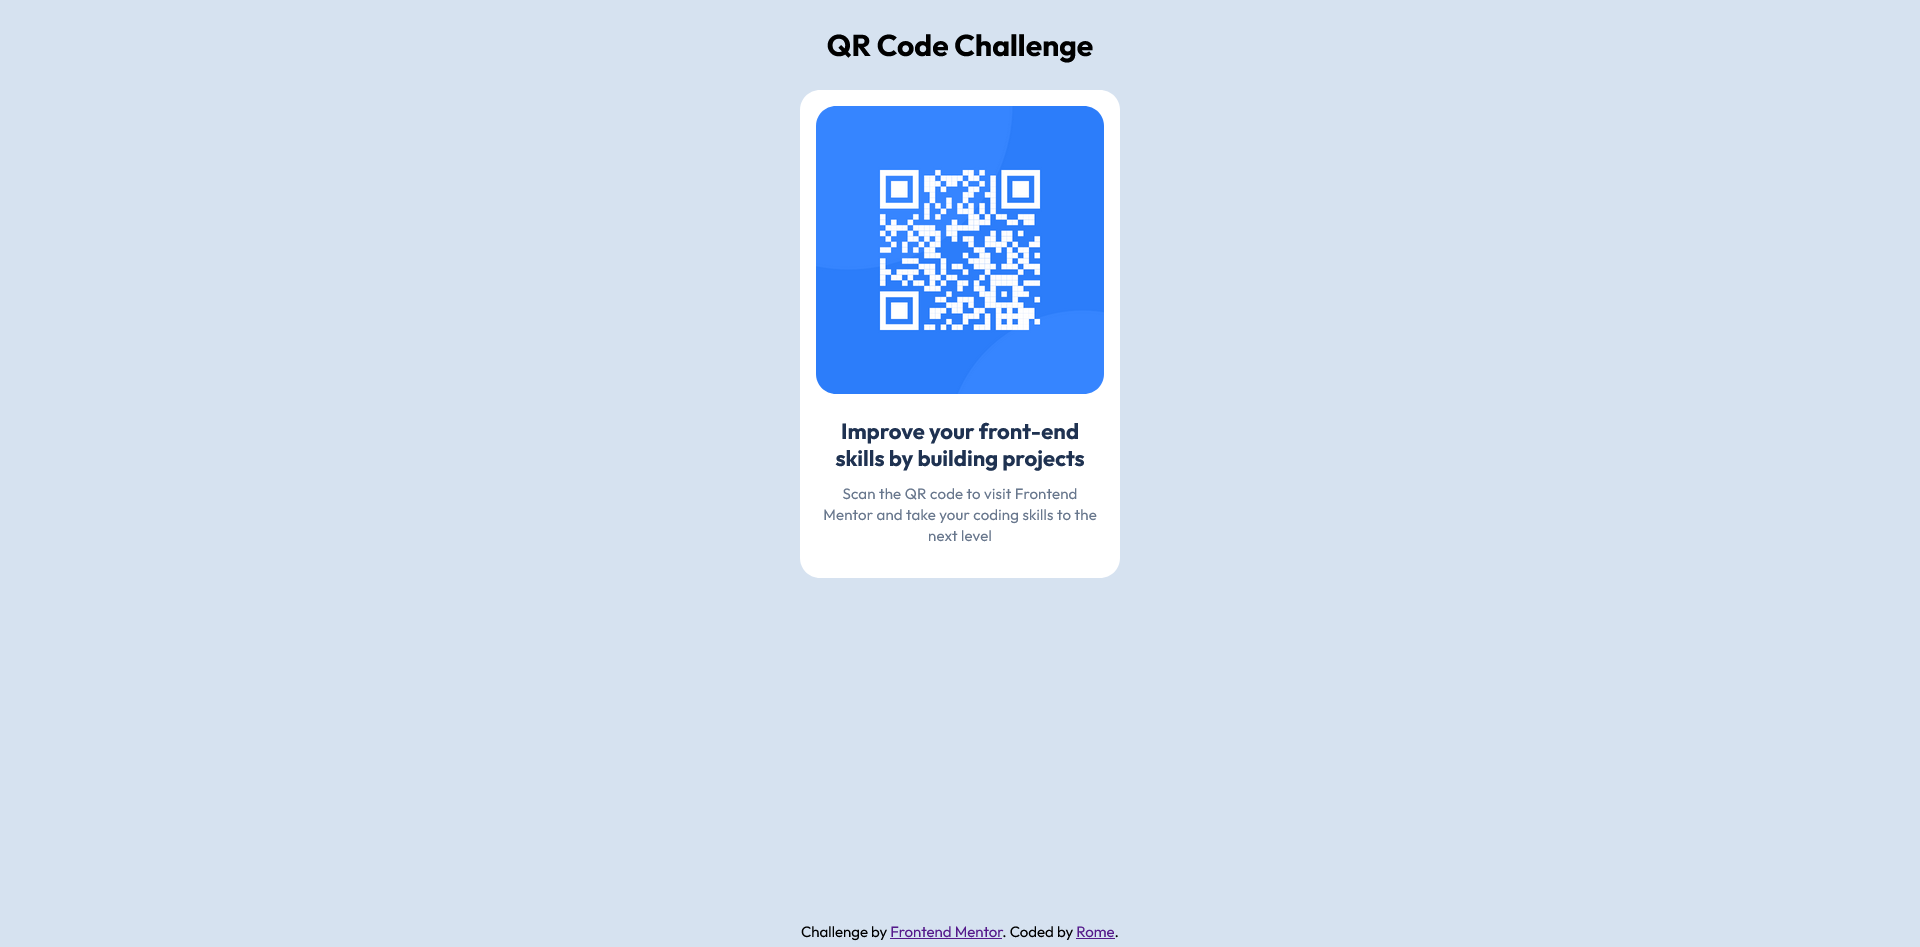
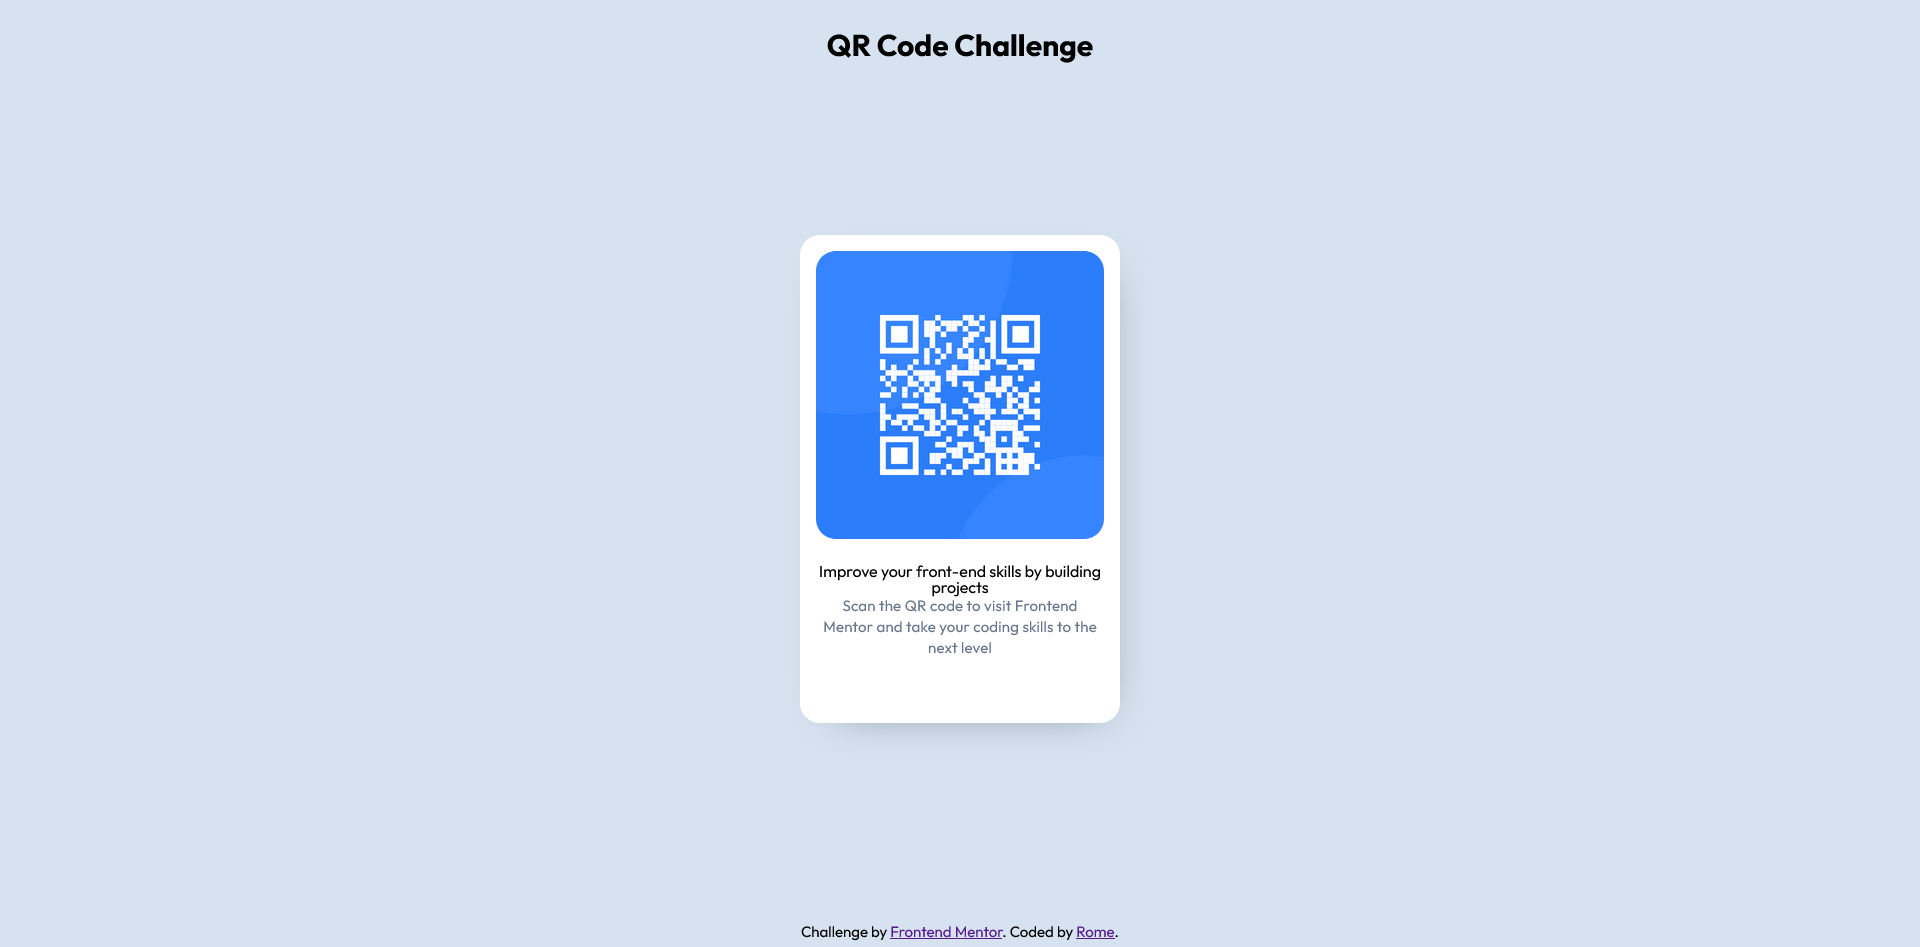
update on H4 to H2 on HTML and CSS files and screenshot update

Changed region(s): [[0.4062, 0.0919, 0.5938, 0.7656]]

diff --git a/content/css/style.css b/content/css/style.css
@@ -53,6 +53,10 @@ header {
   text-align: center;
   margin: 30px auto;
 }
+main {
+  min-height: 52vh;
+  margin: 175px auto 0px;
+}
 .qr-card {
   width: 320px;
   height: 488px;
@@ -61,6 +65,9 @@ header {
   padding: 16px 16px 40px 16px;
   box-sizing: border-box;
   border-radius: 20px;
+  box-shadow: 9px 13px 44px -30px rgba(250,0,0,0.53);
+    -webkit-box-shadow: 9px 13px 44px -30px rgba(0, 0, 0, 0.53);
+      -moz-box-shadow: 9px 13px 44px -30px rgba(250,0,0,0.53);
 }
 .qr-card img {
   width: 288px;
@@ -72,7 +79,7 @@ header {
   margin: 24px 0px 0px 0px;
   text-align: center;
 }
-h4 {
+h2 {
   font-size: 22px;
   font-weight: 900;
   color: var(--slate-900);

diff --git a/index.html b/index.html
@@ -16,7 +16,7 @@
     <div class="qr-card">
       <img src="./content/images/image-qr-code.png" alt="qr code">
       <div class="qr-desc">
-        <h4>Improve your front-end skills by building projects</h4>
+        <h2>Improve your front-end skills by building projects</h2>
         <p>Scan the QR code to visit Frontend Mentor and take your coding skills to the next level</p>
       </div>
     </div>
